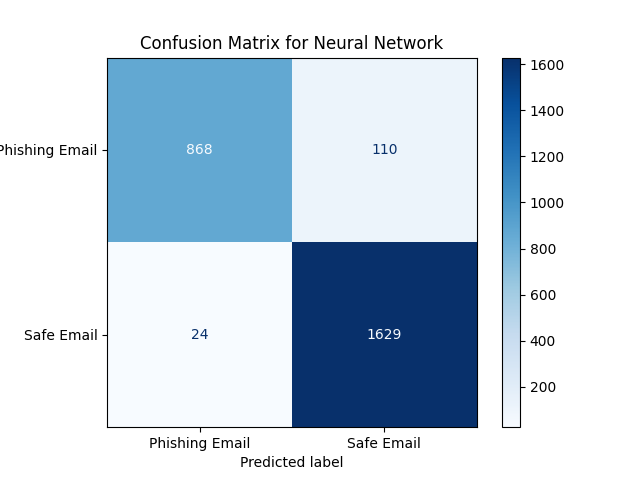
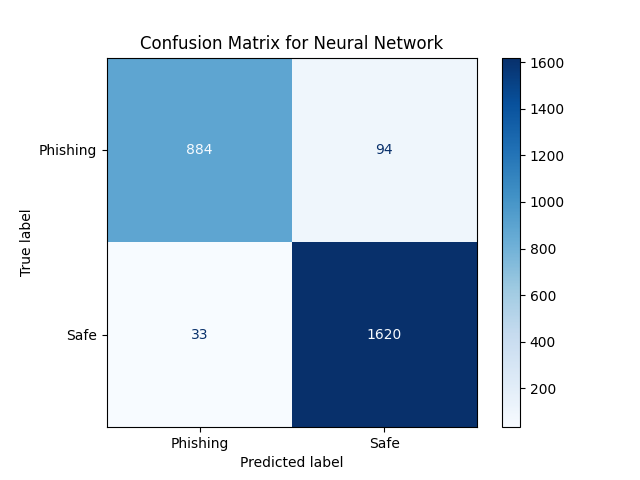
visualization label changes :sob:

diff --git a/naive_bayes.py b/naive_bayes.py
@@ -43,7 +43,7 @@ def report_training_accuracy(model, X_train, y_train) -> float:
     Calculate and print the training accuracy of the Naive Bayes classifier.
     Args:
         model (MultinomialNB): The trained Naive Bayes model.
-        X_train (array-like): The input features for training.
+        X_train: The input features for training.
         y_train (array-like): The target values for training.
     Returns:
        float: The training accuracy
@@ -96,9 +96,9 @@ def plot_confusion_matrix(model, X_test, y_test):
     """
     test_pred = model.predict(X_test)
     cm = confusion_matrix(y_test, test_pred)
-    cx = ConfusionMatrixDisplay(cm, display_labels=['Phishing Email', 'Safe Email']).plot(cmap="YlGn")
+    cx = ConfusionMatrixDisplay(cm, display_labels=['Phishing', 'Safe']).plot(cmap="YlGn")
     plt.title("Confusion Matrix for Naive Bayes")
-    plt.savefig("visualizations/confusion_matrix_naive_bayes.png")
+    plt.savefig("visualizations/confusion_matrix_nb.png")
     plt.show()
 
 def plot_roc_curve(model, X_test, y_test):

diff --git a/decision_tree.py b/decision_tree.py
@@ -163,9 +163,9 @@ def plot_confusion_matrix(y, predictions) -> None:
         None
     """
     clf = confusion_matrix(y, predictions)
-    cx = ConfusionMatrixDisplay(clf, display_labels=['Phishing Email', 'Safe Email']).plot(cmap="RdPu")
+    cx = ConfusionMatrixDisplay(clf, display_labels=['Phishing', 'Safe']).plot(cmap="RdPu")
     plt.title("Confusion Matrix for Decision Tree")
-    plt.savefig("visualizations/confusion_matrix_decision_tree.png")
+    plt.savefig("visualizations/confusion_matrix_dt.png")
     plt.show()
 
 def plot_feature_importance(feature_names, tree, top_n=10) -> None:
@@ -196,7 +196,7 @@ def plot_decision_tree(tree, feature_names) -> None:
         None
     """
     plt.figure(figsize=(20, 20))
-    plot_tree(tree, filled=True, feature_names=feature_names, class_names=['Phishing Email', 'Safe Email'])
+    plot_tree(tree, filled=True, feature_names=feature_names, class_names=['Phishing', 'Safe'])
     plt.title("Decision Tree")
     plt.savefig("visualizations/decision_tree.png")
     plt.show()

diff --git a/neural_network.py b/neural_network.py
@@ -168,7 +168,7 @@ def plot_confusion_matrix(model, data_loader):
             true_labels.extend(labels.squeeze().cpu().numpy())
             predictions.extend(predicted.squeeze().cpu().numpy())
     cm = confusion_matrix(true_labels, predictions)        
-    cm_display = ConfusionMatrixDisplay(cm, display_labels=['Phishing Email', 'Safe Email']).plot(cmap='Blues')
+    cm_display = ConfusionMatrixDisplay(cm, display_labels=['Phishing', 'Safe']).plot(cmap='Blues')
     plt.title("Confusion Matrix for Neural Network")
     plt.savefig("visualizations/confusion_matrix_nn.png")
     plt.show()
